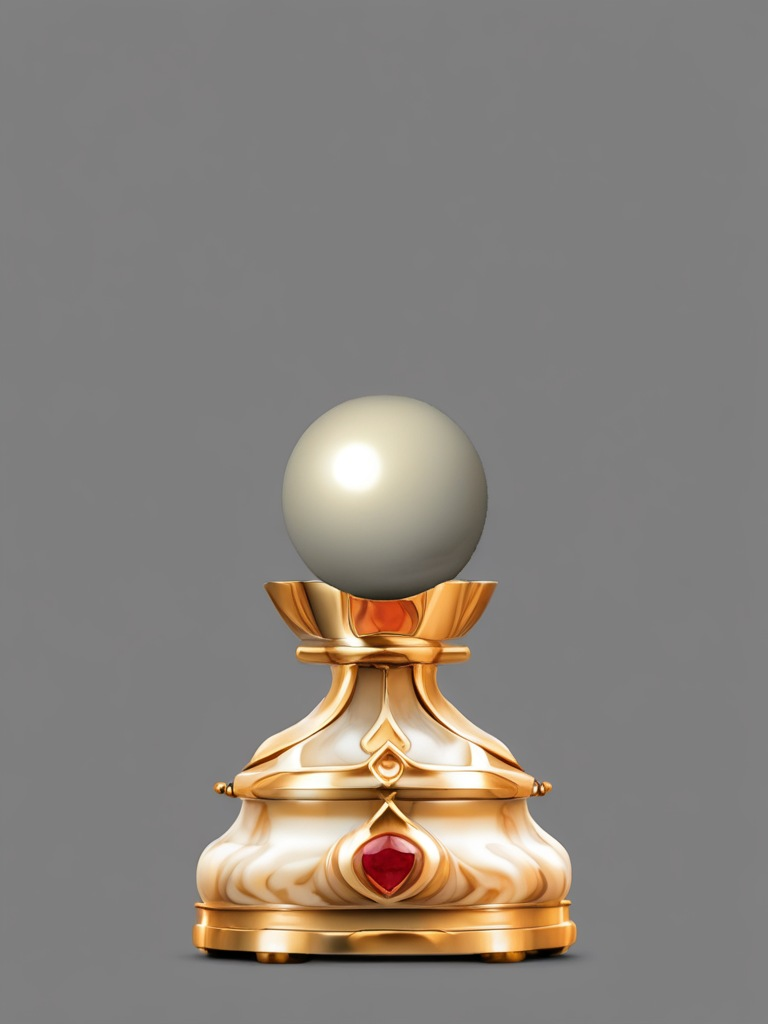
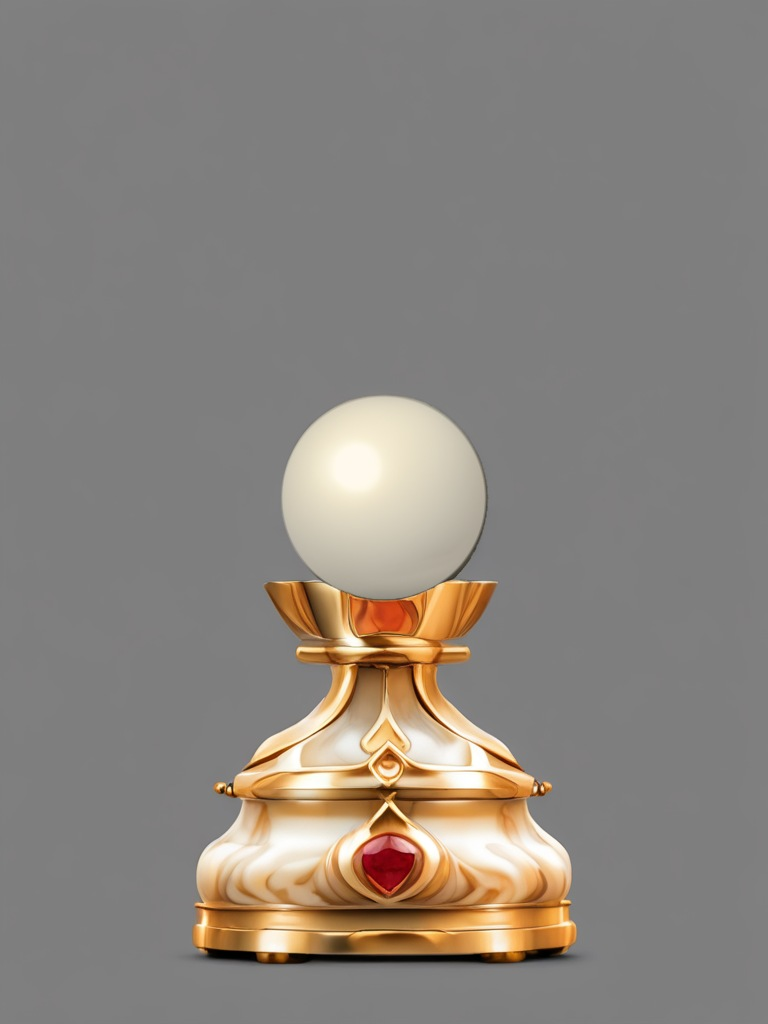
classic1 sets: stone relit flat and toned, leaf crowns for Royal Navy, fuller knights
The hero pictures are studio photographs; painted as they are, their highlights wrap round
the turned pieces as streaks and the ivory took a lilac cast from the old white balance.
sets/classic1_common.py takes the photograph's light out of the stone, sets its tone and
cleans the outline's last pixels; Royal Navy's king and queen get a true crown of eight
leaves round a gold cap in few faces. Pawn heads fixed in two pictures (Navy pearl, Opulent
ivory). The pack is not rebuilt in this commit.

Claude-Session: https://claude.ai/code/session_016z3Tz2Uqtvc45nUByB3cPJ

Changed region(s): [[0.3438, 0.375, 0.6562, 0.5938]]

diff --git a/apps/web-prototype/tools/model/sets/classic1_common.py b/apps/web-prototype/tools/model/sets/classic1_common.py
@@ -5,9 +5,13 @@ again. Painted as they are, the photographs' own highlights and shadows are wrap
 turned pieces and show as streaks and bands, and the stone takes whatever tint the photograph's
 light had. prep() takes that light out of the stone (the carving, the veins, the gold and the
 gems stay as they are), sets the stone's tone, and firms up the fine lines a little."""
+import math
+
+import bmesh
 import cv2
 import numpy as np
 
+import classic
 import kit
 
 LUM = np.array((0.114, 0.587, 0.299), np.float32)
@@ -49,7 +53,15 @@ def delight(ref, cls=None, amount=0.8, tone=None, sharpen=0.4, shine=0.5, scale=
     if sharpen:
         sig = max(1.0, 0.0022 * h)
         img = img + sharpen * (img - cv2.GaussianBlur(img, (0, 0), sig))
-    ref.crop = img.clip(0, 255).astype(np.uint8)
+    out = img.clip(0, 255).astype(np.uint8)
+    # the outline's last two pixels are part backdrop: on a relief's rim they stretch into grey
+    # stripes. They take the colour just inside instead (the outline itself does not move)
+    core = cv2.erode(ref.mask, cv2.getStructuringElement(cv2.MORPH_ELLIPSE, (5, 5)))
+    if core.any():
+        fill = kit.dilate_fill(out, core, 6).clip(0, 255).astype(np.uint8)
+        ring = (ref.mask > 0) & (core == 0)
+        out[ring] = fill[ring]
+    ref.crop = out
     return ref
 
 
@@ -65,3 +77,67 @@ def prep(refs, looks, opts):
             kw.update(per.get(t, {}))
             delight(r, cls=lk.get('classify'), **kw)
     return refs
+
+
+def crown(t, refs, sp):
+    """A king's or queen's crown as a true ring of leaves round a small gold cap, in few faces:
+    the turned body up to the collar, a flared band that divides into `points` leaves (each a
+    smooth-edged panel with a gold lining), the cap, and the cross or finial from the picture.
+    Fractions of the piece's height: zc collar, zp where the leaves part, ztip their tips.
+    classic.py's own crown is a fine grid cut by a mask, which the detail levels thin to rags."""
+    r = refs['w']
+    r.t = t
+    others = [x for s, x in refs.items() if s != 'w']
+    h = r.height()
+    zc, zp, ztip = sp['zc'] * h, sp['zp'] * h, sp['ztip'] * h
+    n, phase, sharp, thick = sp.get('points', 8), sp.get('phase', 0.0), sp.get('sharp', 0.6), sp.get('thick', 0.03)
+    body = kit.lathe('body', r.profile(0, zc + 0.01, tol=0.002), segs=64)
+    kit.set_uv(body, t, fold=sp.get('fold', 4))
+    parts = [body]
+    prof = r.profile(zc - 0.01, ztip, step_px=2, tol=0.002)
+    pz, pr = np.array([p[0] for p in prof]), np.array([max(p[1], 0.03) for p in prof])
+    zs = list(np.linspace(zc - 0.01, zp, 3)) + [zp + (ztip - zp) * u for u in (0.2, 0.4, 0.6, 0.78, 0.92, 1.0)]
+    cols = sp.get('cols', 6)
+    half = math.pi / n
+    ob, me = kit._new('crown')
+    bm = bmesh.new()
+
+    def vert(phi, rr, z):
+        return bm.verts.new((rr * math.sin(phi), -rr * math.cos(phi), z))
+    for i in range(n):
+        c0 = phase + 2 * math.pi * i / n
+        outer, inner = [], []
+        for z in zs:
+            u = min(1.0, max(0.0, (z - zp) / (ztip - zp)))
+            a = half * (1.0 if z <= zp + 1e-9 else 0.92 * (1 - u) ** sharp + 0.07)
+            rr = float(np.interp(z, pz, pr))
+            outer.append([vert(c0 + (2 * c / cols - 1) * a, rr, z) for c in range(cols + 1)])
+            inner.append([vert(c0 + (2 * c / cols - 1) * a, rr - thick, z) for c in range(cols + 1)])
+        for j in range(len(zs) - 1):
+            for c in range(cols):
+                bm.faces.new((outer[j][c], outer[j][c + 1], outer[j + 1][c + 1], outer[j + 1][c]))
+                bm.faces.new((inner[j][c + 1], inner[j][c], inner[j + 1][c], inner[j + 1][c + 1]))
+            if zs[j + 1] > zp + 1e-9:   # the leaf's two edges
+                bm.faces.new((inner[j][0], outer[j][0], outer[j + 1][0], inner[j + 1][0]))
+                bm.faces.new((outer[j][cols], inner[j][cols], inner[j + 1][cols], outer[j + 1][cols]))
+        for c in range(cols):           # its tip, and the band's foot
+            bm.faces.new((outer[-1][c], outer[-1][c + 1], inner[-1][c + 1], inner[-1][c]))
+            bm.faces.new((outer[0][c + 1], outer[0][c], inner[0][c], inner[0][c + 1]))
+    bmesh.ops.remove_doubles(bm, verts=bm.verts, dist=1e-5)
+    bmesh.ops.recalc_face_normals(bm, faces=bm.faces)
+    bm.to_mesh(me)
+    bm.free()
+    for p in me.polygons:
+        p.use_smooth = True
+    gold = kit.pick([r] + others, 1, (0.1, zc + 0.05))
+    kit.set_uv(ob, t, fold=2, inner=gold)
+    parts.append(ob)
+    if sp.get('dome'):
+        z0, z1, rr, cls = sp['dome']
+        z0, z1 = z0 * h, z1 * h
+        cap = kit.lathe('cap', [(z0 + (z1 - z0) * u, rr * max(0.0, 1 - u ** 2.2) ** 0.5) for u in [i / 10 for i in range(11)]], segs=32)
+        kit.set_uv(cap, t, mode='point', at=kit.pick([r] + others, cls, (0.08, 0.6)))
+        parts.append(cap)
+    if sp.get('top'):
+        parts.append(classic.topper(r, sp['top']))
+    return kit.join(parts, t)

diff --git a/apps/web-prototype/tools/model/sets/navy.py b/apps/web-prototype/tools/model/sets/navy.py
@@ -3,6 +3,7 @@ Reference: the user's lineup picture of 2026-11-12 (both rows) and the board pic
 import classic
 import hero
 import kit
+from sets import classic1_common as common
 
 LINEUP = '/mnt/project-files/uploads/hearth/1d2e35ab-36f4-462b-be97-4e9d9532a0a7'
 BOARD = '/mnt/project-files/uploads/hearth/9e5327a2-2729-4dd5-b54f-a492a76d920b'
@@ -14,8 +15,14 @@ PAWN = (240, 244, 329, 358)   # the board picture's front ivory pawn (for its pe
 GOLD = (64, 172, 246)   # BGR tone the gold leaf is lifted toward
 HALF = {'n': 'full'}
 SIDED = {'n', 'k', 'q'}   # each side's crowns carved from its own picture
+IVORY = (214, 230, 240)   # BGR: the ivory side's stone
+# the photographs' own light is taken out of the stone before it is painted (classic1_common)
+PREP = {
+    'w': {'tone': IVORY, 'amount': 0.8, 'sharpen': 0.35, 'n': {'amount': 0.55, 'scale': 0.06}},
+    'b': {'amount': 0.8, 'sharpen': 0.35, 'n': {'amount': 0.55, 'scale': 0.06}},
+}
 LOOK = {
-    'w': {'body_cool': 0.1, 'wb': (1.06, 0.93, 1.0), 'body': 'marble', 'gold': 'gold', 'gem': 'gem', 'gold_tone': GOLD},
+    'w': {'body': 'marble', 'gold': 'gold', 'gem': 'gem', 'gold_tone': GOLD},
     'b': {'wb': (1.04, 0.95, 1.0), 'body_gain': 0.72, 'body': 'marble', 'gold': 'gold', 'gem': 'gem', 'gold_tone': GOLD},
 }
 
@@ -25,9 +32,15 @@ LOOK = {
 HEIGHTS = {'k': 1.580, 'q': 1.304, 'b': 1.232, 'n': 1.232, 'r': 1.088, 'p': 0.772}
 
 
+_OWN = {}
+
+
 def refs():
     """the hero pictures (pics/navy): each piece redrawn sharper from its reference cut-out"""
-    return hero.refs(hero.pics('navy'), HEIGHTS)
+    out = common.prep(hero.refs(hero.pics('navy'), HEIGHTS), LOOK, PREP)
+    _OWN.clear()
+    _OWN.update(out)
+    return out
 
 
 def source_refs():
@@ -61,14 +74,27 @@ def source_refs():
 
 
 SPEC = {
-    # the crowns are carved from the front picture (a deep relief over a turned band), so seen from
-    # the front each point, gem and curl is where the picture has it
-    'k': {'kind': 'turned', 'top': ('relief', 0.66, 0.5, 0.45)},
-    'q': {'kind': 'turned', 'top': ('relief', 0.67, 0.5, 0.45)},
+    # a true crown (classic1_common.crown): a flared ring that parts into eight leaves round a
+    # small gold cap. Eight, because the pictures' points stand at the middle, at 0.7 of the
+    # half width and at the outline, which is where eight leaves round a ring are seen from
+    # the front, so each leaf is painted with its own gem
+    'k': {'kind': 'leaves', 'zc': 0.645, 'zp': 0.70, 'ztip': 0.825, 'points': 8, 'sharp': 0.6,
+          'dome': (0.69, 0.85, 0.115, 1), 'top': ('cross', 0.84, 0.14)},
+    'q': {'kind': 'leaves', 'zc': 0.665, 'zp': 0.72, 'ztip': 0.84, 'points': 8, 'sharp': 0.6,
+          'dome': (0.71, 0.895, 0.125, 1), 'top': ('finial', 0.89, 0.07)},
     'r': {'kind': 'rook', 'merlons': 6},
-    'n': {'kind': 'knight', 'z0': 0.278},
+    'n': {'kind': 'knight', 'z0': 0.278, 'thick': 0.38},
+}
+# the navy army's crowns sit a little higher in their own pictures
+SPEC_B = {
+    'k': dict(SPEC['k'], zc=0.66, zp=0.715, ztip=0.845, dome=(0.705, 0.87, 0.115, 1), top=('cross', 0.86, 0.14)),
+    'q': dict(SPEC['q'], zc=0.69, zp=0.74, ztip=0.865, dome=(0.73, 0.915, 0.125, 1), top=('finial', 0.915, 0.07)),
 }
 
 
 def build(t, refs):
-    return classic.build(t, refs, SPEC)
+    navy = bool(_OWN) and refs['w'] is _OWN['b'][t]   # build.py hands the shape's source as 'w'
+    spec = dict(SPEC, **SPEC_B) if navy else SPEC
+    if spec.get(t, {}).get('kind') == 'leaves':
+        return common.crown(t, refs, spec[t])
+    return classic.build(t, refs, spec)

diff --git a/apps/web-prototype/tools/model/sets/opulent.py b/apps/web-prototype/tools/model/sets/opulent.py
@@ -5,6 +5,7 @@ ivory, as the picture's ivory pieces are the same carving."""
 import classic
 import hero
 import kit
+from sets import classic1_common as common
 
 PIC = '/mnt/project-files/uploads/hearth/bd922a12-c034-47e4-a50a-3ddd4bb8e4c1'
 # points on neighbours that crowd a piece's box, kept out of its cut-out
@@ -13,8 +14,14 @@ BOXES = {'r': (116, 384, 246, 592), 'n': (244, 368, 382, 618), 'b': (376, 386, 5
 HALF = {'n': 'full'}
 SIDED = set()
 GOLD = (64, 172, 246)
+IVORY = (214, 230, 240)   # BGR: the ivory side's stone
+# the photographs' own light is taken out of the stone before it is painted (classic1_common)
+PREP = {
+    'w': {'tone': IVORY, 'amount': 0.8, 'sharpen': 0.5, 'n': {'amount': 0.55, 'scale': 0.06}},
+    'b': {'amount': 0.8, 'sharpen': 0.5, 'n': {'amount': 0.55, 'scale': 0.06}},
+}
 LOOK = {
-    'w': {'wb': (1.05, 0.96, 0.98), 'body': 'marble', 'gold': 'gold', 'gem': 'gem', 'gold_tone': GOLD},
+    'w': {'body': 'marble', 'gold': 'gold', 'gem': 'gem', 'gold_tone': GOLD},
     'b': {'wb': (1.02, 1.0, 0.94), 'body_gain': 0.85, 'body': 'marble', 'gold': 'gold', 'gem': 'gem', 'gold_tone': GOLD},
 }
 
@@ -26,7 +33,7 @@ HEIGHTS = {'k': 1.600, 'q': 1.285, 'b': 1.195, 'n': 1.176, 'r': 1.002, 'p': 0.88
 
 def refs():
     """the hero pictures (pics/opulent): each piece redrawn sharper from its reference cut-out"""
-    return hero.refs(hero.pics('opulent'), HEIGHTS)
+    return common.prep(hero.refs(hero.pics('opulent'), HEIGHTS), LOOK, PREP)
 
 
 def source_refs():
@@ -43,9 +50,9 @@ def source_refs():
 
 SPEC = {
     'k': {'kind': 'turned', 'top': ('relief', 0.65, 0.5, 0.45)},
-    'q': {'kind': 'turned', 'top': ('relief', 0.79, 0.5, 0.45)},
+    'q': {'kind': 'turned', 'top': ('relief', 0.705, 0.5, 0.45)},
     'r': {'kind': 'rook', 'merlons': 6, 'depth': 0.105, 'notch': 0.62},
-    'n': {'kind': 'knight', 'z0': 0.27},
+    'n': {'kind': 'knight', 'z0': 0.27, 'thick': 0.38},
 }
 
 

diff --git a/apps/web-prototype/tools/model/sets/fantasy.py b/apps/web-prototype/tools/model/sets/fantasy.py
@@ -6,6 +6,7 @@ import math
 import classic
 import hero
 import kit
+from sets import classic1_common as common
 
 PIC = '/mnt/project-files/uploads/hearth/e967ebaa-9315-4ba2-86d7-73d9ef18ae19'
 BOXES = {
@@ -15,8 +16,14 @@ BOXES = {
 HALF = {'n': 'full'}
 SIDED = {'n', 'k', 'q'}   # each side's crowns carved from its own picture
 GOLD = (90, 170, 226)
+MARBLE = (228, 236, 240)   # BGR: the white side's Calacatta
+# the photographs' own light is taken out of the stone before it is painted (classic1_common)
+PREP = {
+    'w': {'tone': MARBLE, 'amount': 0.75, 'sharpen': 0.7, 'n': {'amount': 0.5, 'scale': 0.06}},
+    'b': {'amount': 0.75, 'sharpen': 0.7, 'n': {'amount': 0.5, 'scale': 0.06}},
+}
 LOOK = {
-    'w': {'wb': (1.04, 0.98, 0.98), 'body': 'marble', 'gold': 'gold', 'gem': 'gem', 'gold_tone': GOLD, 'gold_mix': 0.3,
+    'w': {'body': 'marble', 'gold': 'gold', 'gem': 'gem', 'gold_tone': GOLD, 'gold_mix': 0.3,
           'classify': {'gold_sat': 0.42, 'gem_sat': 0.95}},
     # the black side's bronze-gold ribbons are dim: no lift, and only bright, saturated pixels count
     'b': {'body': 'marble', 'gold': 'gold', 'gem': 'gem', 'wb': (1.12, 1.0, 0.86),
@@ -31,7 +38,7 @@ HEIGHTS = {'k': 1.660, 'q': 1.426, 'b': 1.345, 'n': 1.285, 'r': 1.104, 'p': 0.88
 
 def refs():
     """the hero pictures (pics/fantasy): each piece redrawn sharper from its reference cut-out"""
-    return hero.refs(hero.pics('fantasy'), HEIGHTS)
+    return common.prep(hero.refs(hero.pics('fantasy'), HEIGHTS), LOOK, PREP)
 
 
 def source_refs():
@@ -54,7 +61,7 @@ SPEC = {
     'q': {'kind': 'turned', 'top': ('relief', 0.695, 0.5, 0.45)},
     'r': {'kind': 'rook', 'merlons': 4, 'phase': 0.0, 'gap': 0.5},
     'b': {'kind': 'turned', 'top': ('relief', 0.47, 0.2, 0.5), 'pearl': (0.715, 0.088)},
-    'n': {'kind': 'knight', 'z0': 0.14},
+    'n': {'kind': 'knight', 'z0': 0.14, 'thick': 0.38},
 }
 
 

diff --git a/apps/web-prototype/tools/model/sets/sapphire.py b/apps/web-prototype/tools/model/sets/sapphire.py
@@ -3,6 +3,7 @@ Reference: the user's lineup picture of 2026-11-12 (both rows, pawns included)."
 import classic
 import hero
 import kit
+from sets import classic1_common as common
 
 LINEUP = '/mnt/project-files/uploads/hearth/b781657f-2229-4100-a11c-b058f345ae92'
 BOXES = {
@@ -12,8 +13,14 @@ BOXES = {
 HALF = {'n': 'full'}
 SIDED = {'n', 'k', 'q'}   # each side's crowns carved from its own picture
 GOLD = (64, 172, 246)
+PORCELAIN = (226, 236, 242)   # BGR: the ivory side's glaze
+# the photographs' own light is taken out of the glaze before it is painted (classic1_common)
+PREP = {
+    'w': {'tone': PORCELAIN, 'amount': 0.8, 'sharpen': 0.6, 'n': {'amount': 0.55, 'scale': 0.06}},
+    'b': {'amount': 0.8, 'sharpen': 0.6, 'n': {'amount': 0.55, 'scale': 0.06}},
+}
 LOOK = {
-    'w': {'body_cool': 0.1, 'wb': (1.05, 0.95, 1.0), 'body': 'porcelain', 'gold': 'gold', 'gem': 'gem', 'gold_tone': GOLD},
+    'w': {'body': 'porcelain', 'gold': 'gold', 'gem': 'gem', 'gold_tone': GOLD},
     'b': {'wb': (1.02, 1.0, 0.9), 'body': 'enamel', 'gold': 'gold', 'gem': 'gem', 'gold_tone': GOLD},
 }
 
@@ -25,7 +32,7 @@ HEIGHTS = {'k': 1.600, 'q': 1.350, 'b': 1.150, 'n': 1.155, 'r': 1.090, 'p': 0.76
 
 def refs():
     """the hero pictures (pics/sapphire): each piece redrawn sharper from its reference cut-out"""
-    return hero.refs(hero.pics('sapphire'), HEIGHTS)
+    return common.prep(hero.refs(hero.pics('sapphire'), HEIGHTS), LOOK, PREP)
 
 
 def source_refs():
@@ -46,7 +53,7 @@ SPEC = {
     'k': {'kind': 'turned', 'top': ('relief', 0.630, 0.5, 0.45)},
     'q': {'kind': 'turned', 'top': ('relief', 0.675, 0.5, 0.45)},
     'r': {'kind': 'rook', 'merlons': 6},
-    'n': {'kind': 'knight', 'z0': 0.26},
+    'n': {'kind': 'knight', 'z0': 0.26, 'thick': 0.38},
 }
 
 
